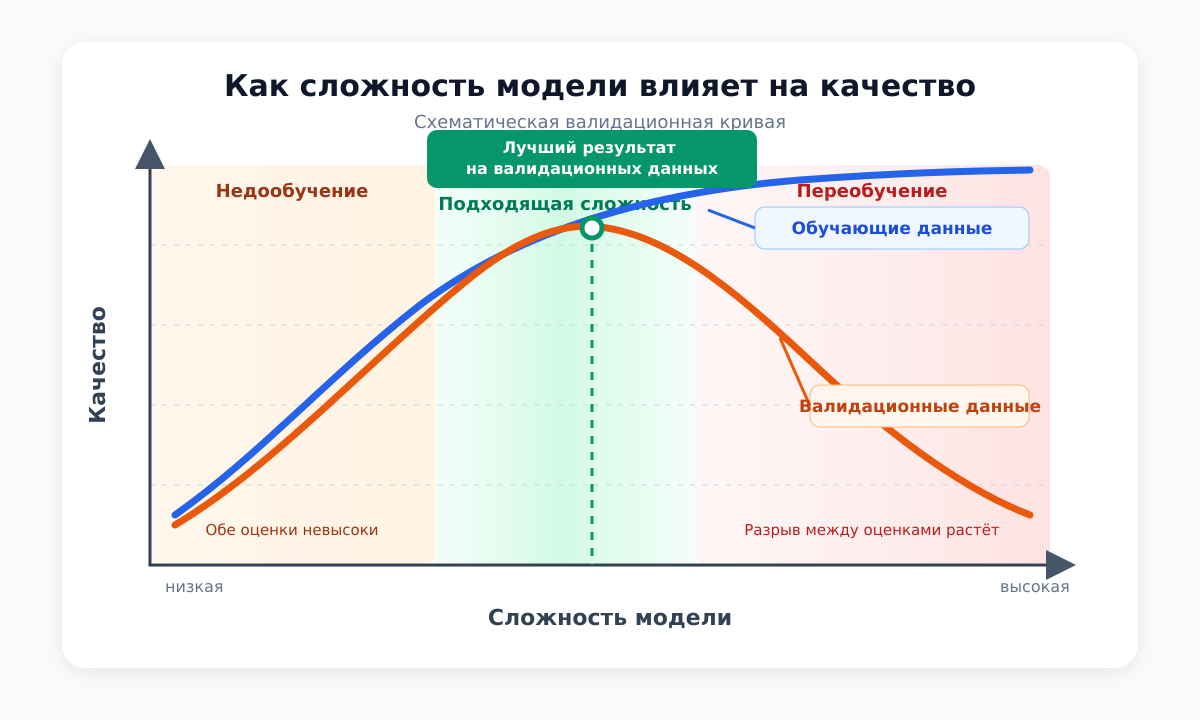
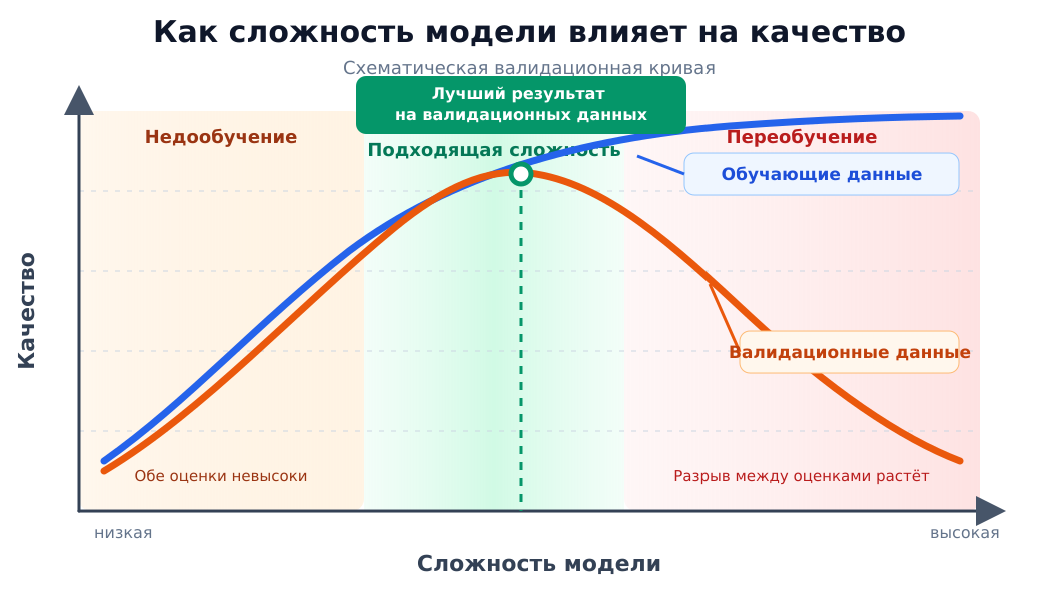
validation-curve-depth.png

diff --git a/src/content/docs/validation/validation-curves.md b/src/content/docs/validation/validation-curves.md
@@ -25,15 +25,13 @@ description: Как выбрать значение гиперпараметра
 
 Поэтому в реальных задачах часто используют три части данных:
 
-- обучающая выборка — для обучения модели;
-- валидационная выборка — для подбора гиперпараметров;
-- тестовая выборка — для финальной оценки выбранной модели.
-
-Вместо отдельной валидационной выборки можно использовать кросс-валидацию. Тогда для каждого значения гиперпараметра модель несколько раз обучается и проверяется на разных частях данных, а качество усредняется.
+- **обучающая выборка** — для обучения модели;
+- **валидационная выборка** — для подбора гиперпараметров;
+- **тестовая выборка** — для финальной оценки выбранной модели.
 
 ## Пример
 
-Построим валидационную кривую для дерева решений. Будем менять `maxDepth` от `1` до `10` и смотреть, как меняется `Accuracy`.
+Построим валидационные кривые для дерева решений. Будем менять `maxDepth` от `1` до `10` и смотреть, как меняется `Accuracy`.
 
 ```pascal
 uses MLABC, PlotML;
@@ -69,15 +67,19 @@ end.
 
 `Validation.ValidationCurve` строит данные для графика: для каждого значения `maxDepth` создаётся новая модель, затем качество оценивается с помощью `Accuracy`.
 
+После запуска программа строит график зависимости качества от глубины дерева.
+
+<img src="/images/validation-curve-depth.png" alt="Валидационная кривая для глубины дерева решений" class="plot-output-image" />
+
 ## Как читать график
 
-На валидационной кривой обычно сравнивают качество на обучающих данных и качество на проверочных данных.
+На валидационной кривой сравнивают качество на обучающих данных и качество на валидационных данных.
 
-Если обе кривые низкие, модель слишком простая и недообучается.
+Синяя кривая показывает качество на обучающих данных. При увеличении `maxDepth` дерево становится сложнее, поэтому качество на обучающей выборке почти всё время растёт.
 
-Если качество на обучающих данных высокое, а качество на проверочных данных заметно ниже, модель переобучается.
+Красная кривая показывает качество на валидационных данных. Сначала оно тоже растёт: модель перестаёт быть слишком простой. Затем после `maxDepth = 4` качество начинает снижаться: дерево становится слишком подробным и хуже работает на новых данных.
 
-Подходящее значение гиперпараметра обычно находится там, где качество на проверочных данных максимально или близко к максимуму.
+Поэтому подходящее значение гиперпараметра выбирают по красной кривой. В этом примере лучший результат получается примерно при `maxDepth = 4`.
 
 ## Главное
 
